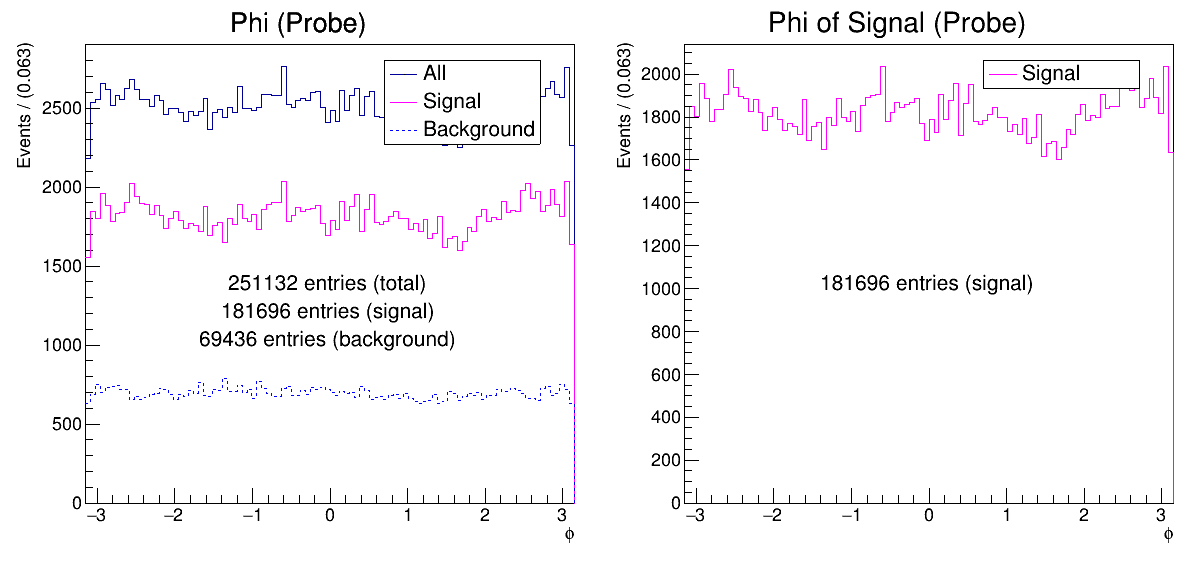
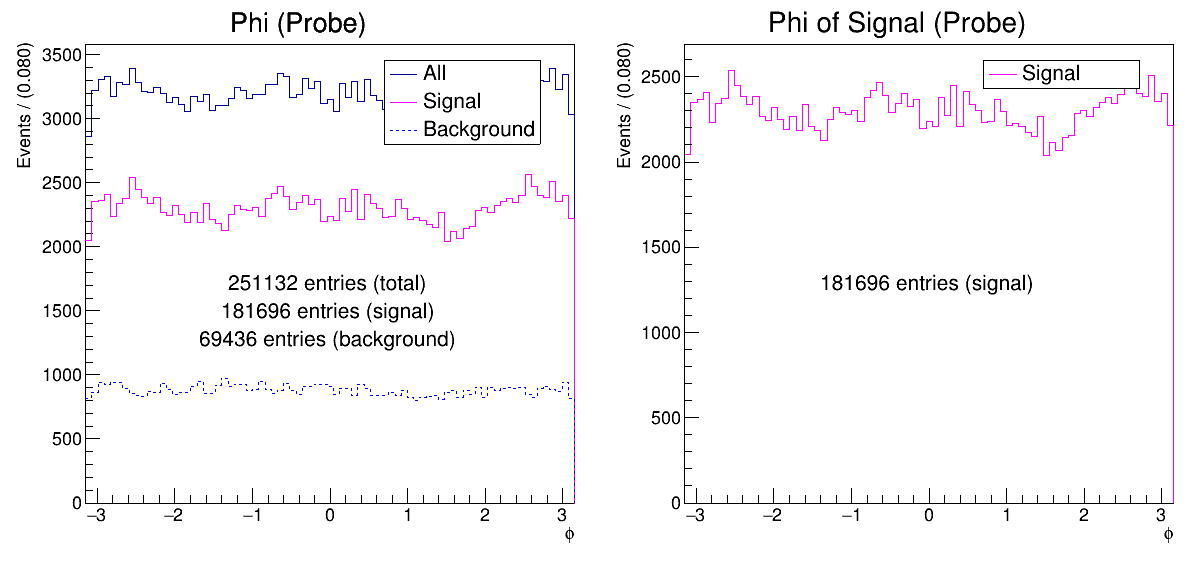
Add files via upload

diff --git a/bigboss.C b/bigboss.C
@@ -135,10 +135,10 @@ void invariantMassProbe()
 	Tree->SetBranchAddress("InvariantMass",		&InvariantMass);
 
 	//Create histograms for Singla + Background
-	TH1D *hMassAll = new TH1D("InvariantMassProbe","All Invariant Mass (Probe);Mass (GeV/c^{2});Events",240,2.8,3.4);
-	TH1D *hPtSigBack = new TH1D("TransversalMomentumProbeAll","Transversal Momentum (Probe);Transversal Momentum (GeV/c);Events",100,0.,100.);
+	TH1D *hMassAll    = new TH1D("InvariantMassProbe","All Invariant Mass (Probe);Mass (GeV/c^{2});Events",240,2.8,3.4);
+	TH1D *hPtSigBack  = new TH1D("TransversalMomentumProbeAll","Transversal Momentum (Probe);Transversal Momentum (GeV/c);Events",100,0.,100.);
 	TH1D *hEtaSigBack = new TH1D("PseudorapidityProbeAll","Pseudorapidity (Probe);#eta;Events",200,-2.5,2.5);
-	TH1D *hPhiSigBack = new TH1D("PhiProbeAll","Phi (Probe);#phi;Events",100,-3.15,3.15);
+	TH1D *hPhiSigBack = new TH1D("PhiProbeAll","Phi (Probe);#phi;Events",79,-3.15,3.15);
 
 	//Clone histogram for Background
 	TH1D* hPtBack  = (TH1D*) hPtSigBack->Clone("hPtBack");
@@ -614,15 +614,22 @@ void invariantMassProbe()
 	//Debug
 	cout << endl;
 	cout << "Candidates by sideband" << endl;
-	cout << "#Tree Entries     = " << Tree->GetEntries() << endl;
-	cout << "#Total            = "	<< count_sigregion 					<< endl;
-	cout << "#Sideband         = "	<< count_sideband 					<< endl;
-	cout << "#Total - Sideband = " 	<< count_sigregion - count_sideband << endl;
+	cout << "#Tree Entries     = "   << Tree->GetEntries() << endl;
+	cout << "#Total            = "	 << count_sigregion 					<< endl;
+	cout << "#Sideband         = "	 << count_sideband 						<< endl;
+	cout << "#Total - Sideband = " 	 << count_sigregion - count_sideband	<< endl;
+
+	//Integrate function to get number of particles in it
+	cout << endl;
+	cout << "Checking number Inconsistency" << endl;
+	cout << "#Pt  = " << hPtSigBack->GetEntries()  - hPtSig->GetEntries()  - hPtBack->GetEntries() << endl;
+	cout << "#Phi = " << hPhiSigBack->GetEntries() - hPhiSig->GetEntries() - hPhiBack->GetEntries() << endl;
+	cout << "#Eta = " << hEtaSigBack->GetEntries() - hEtaSig->GetEntries() - hEtaBack->GetEntries() << endl;
 
 
 	//Show chi-squared test (on prompt)
 	cout << endl;
-	cout << "Overview"<< endl;
+	cout << "Overview" << endl;
 	cout << "Chi2/ndf = " << f->GetChisquare()/f->GetNDF() << endl;
 	printf( "#Signal  = %.0f +- %.0f\n",S,dS);
 	cout << endl;
